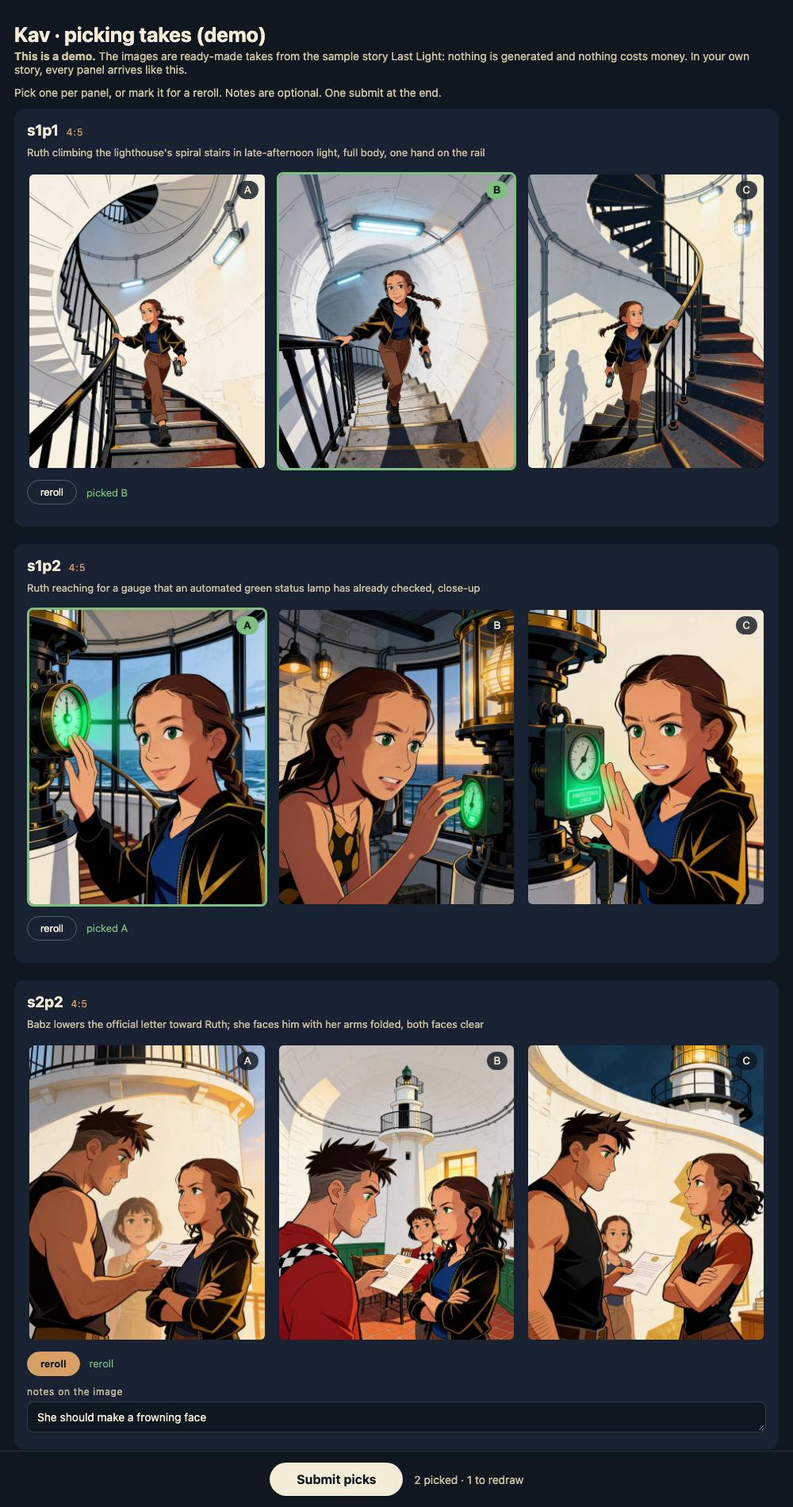
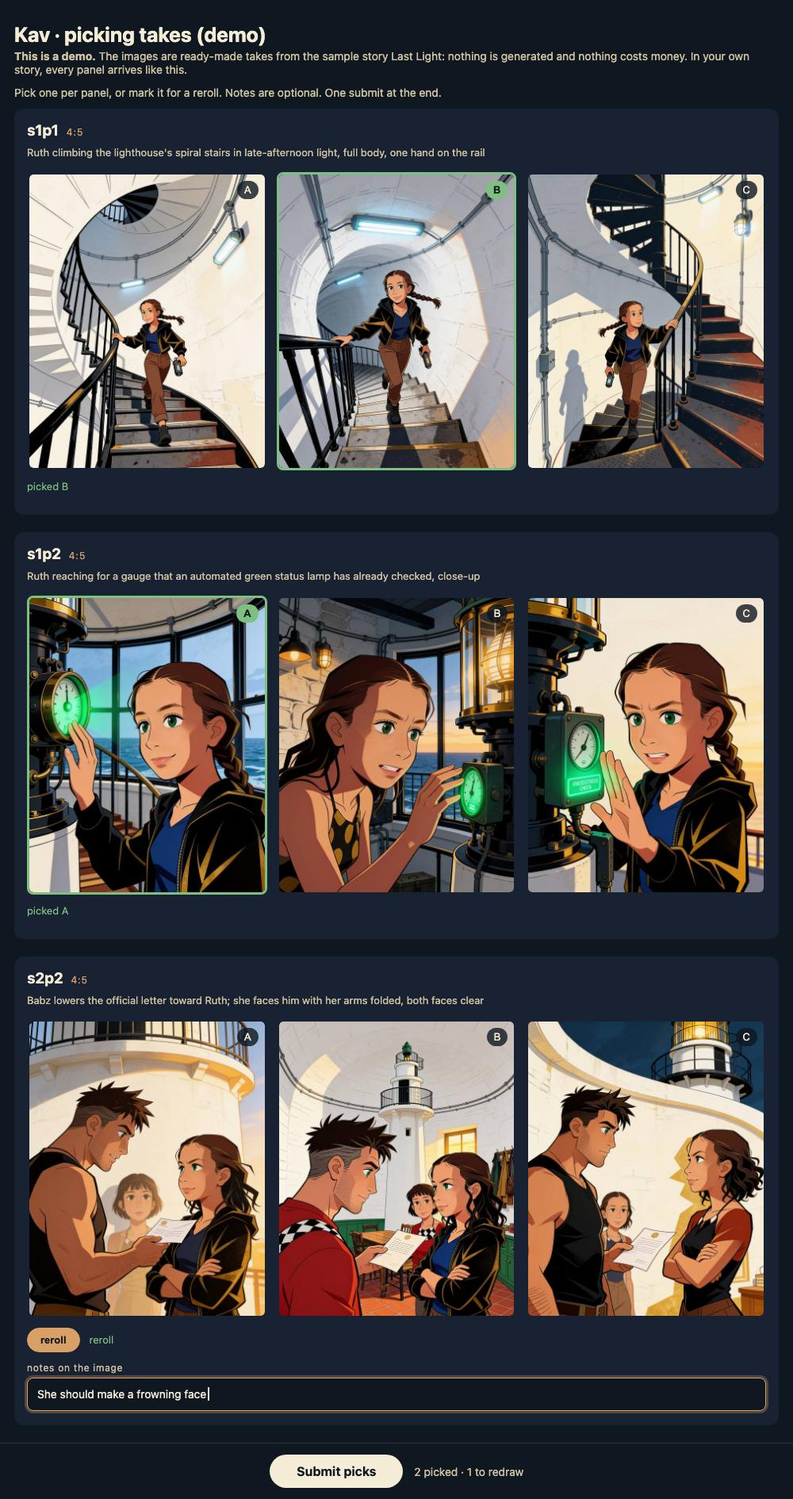
Demo picture and model table: simpler
- picking.jpg: no re-roll button on the two picked panels, and the re-roll note is shown being typed (focused field, caret).
- image-models.md rewritten short and in plain wording: strong points and limits per model. Nano Banana Pro: strong styling, struggles with consistency, about 4x the price. The single-book ChatGPT row is gone. For a tool that is not listed, Kav says it knows of no specific limits and offers to try a few examples, without starting a test unasked.
- /kav-start's provider table and pointers match.

diff --git a/docs/know-how/image-models.md b/docs/know-how/image-models.md
@@ -1,42 +1,38 @@
-# Image models: what each is like to work with in Kav
+# Image models in Kav
 
-What we know about each image model **as it behaves inside Kav**: with a character's reference shots, a location and a style pack bound to every panel. This is not a general ranking. A model that makes the most beautiful single picture can still lose a book, because a book needs the same face on page 1 and page 40.
+What each image model is like when you make a book with it in Kav. This is not a general ranking. A book needs the same face on every page, so consistency counts more than one beautiful picture.
 
-Every line says where it comes from. "Bake-off" means the same ten picked panels of a finished book were redrawn on that model and judged by eye. "One book" means a single author's session. "Untested" means the client works and nothing it made has been judged.
+Prices and reference limits change. `python3 tools/check_setup.py` prints the current values.
 
-Prices and reference caps change: `python3 tools/check_setup.py` prints the current ones from `tools/lanes/models.json`. When this page and the registry disagree, the registry wins and this page needs an edit.
+## Models Kav can run
 
-## How to use this with an author
+| Model | Strong points | Limits |
+|---|---|---|
+| **Seedream 4.5 on fal.ai** · about $0.04 | Best consistency. It keeps faces and style across scenes. It takes 10 reference images. Kav's default | A fourth named character in one panel can drift |
+| **Seedream 4.5 on Magnific** · about $0.05 | Good consistency. The same model as on fal.ai | It takes 5 reference images. Keep to 3 characters in a panel. It does not make 4:5 images, so Kav crops them |
+| **Nano Banana Pro** on fal.ai or a Google key · about $0.15 | Strong styling and image quality | It struggles with consistency. It costs about 4 times more than Seedream |
+| **Higgsfield** (Popcorn, Soul) · about $0.05 | Popcorn takes 8 reference images | Not tested. Soul takes 1 reference image, so it cannot keep a face |
 
-Ask what they already have an account with, then show the options that fit, with the trade-offs in plain words. **A tool they already use and like is the natural choice**; say what it costs them in Kav and respect the decision. If they name something that isn't here, say it is new to us, try it through the author's-own-tool route (`own-image-tool.md`) on two or three panels, and judge it together. Then add what you learned to this page.
+## Models Kav cannot run
 
-## Works through Kav's own lanes
+| Model | Strong points | Limits |
+|---|---|---|
+| **Midjourney** | The most artistic output | It has no API, so Kav cannot use it. You can make images there by hand, and Kav can add them as takes (`tools/add_candidate.py`) |
 
-| Model, and where | Good at | Costs you | Evidence |
-|---|---|---|---|
-| **Seedream 4.5 on fal.ai** · about $0.04 | Holding faces and a style pack together across scenes. Takes up to 10 reference images, the biggest stack of any lane. Kav's default | Past 10 references it silently drops some, so a very crowded panel loses a character. A fourth named face still drifts first | Bake-off: matched the book |
-| **Seedream 4.5 on Magnific** · about $0.05 | Same model, similar quality, its own slightly different look. A good choice for someone who already pays for Magnific | **5 reference images at most.** In practice a panel holds three named subjects (characters and bound objects) before the style stops binding, so scenes are planned around that. No 4:5 output: page cells come back 3:4 and need cropping | Bake-off: passed |
-| **Nano Banana Pro on fal.ai or Google's own key** · about $0.15 | Overall image quality and a strong look of its own. Reliable for text inside the frame, real places, and a single character's reference shots | About four times Seedream's price. Faces hold less well from scene to scene. It tends to paint in its own style over the style pack: in our rotoscope test it ignored the pack. Refuses the wide panel shapes (8:5, 12:5), which come back 16:9 and 21:9 | Bake-off (one style) |
-| **Popcorn on Higgsfield** · about $0.05 | Takes 8 references, the closest in shape to how Kav works | Unknown. API credits are bought separately from the app plan | Untested |
-| **Soul on Higgsfield** · about $0.05 | Higgsfield's own look | One style reference only, so it cannot hold a character's face across panels | Untested |
+## The image generator in the author's AI tool
 
-## Works through the author's own tool
+It needs no key and no setup. The agent makes one panel for each image and adds the results as takes (`own-image-tool.md`). Kav cannot see the cost.
 
-No key and nothing to set up. Kav cannot bind its reference stack or see the cost; the agent passes the references and files the results as takes (`own-image-tool.md`).
+## When the author asks about a tool that is not here
 
-| Tool | Good at | Costs you | Evidence |
-|---|---|---|---|
-| **ChatGPT / Codex built-in image generation** | Attractive painterly pages straight away, and it follows a rough layout sketch well. The author called the first full set "beautiful" | Precise anatomy on unusual subjects (an ant's six legs) failed repeatedly, and a local fix tends to redraw its neighbours. Much easier to live with one panel per image and three takes to choose from. Cost is not visible to Kav | One book |
-| **Midjourney** | The most artistic, stylised output of anything here | **Kav cannot drive it: it has no API.** Images an author makes there by hand can still be brought in as takes with `tools/add_candidate.py`, but every panel is a manual round trip, and keeping a character consistent is on the author | Not used in Kav |
-| **Anything else** (Krea, Leonardo, Ideogram, a local model…) | Unknown to us | Unknown to us. Try two or three panels and judge | Untested |
+Say that Kav knows of no specific limits or problems with it. Offer to try a few examples together and judge the results. Do not start a test before the author says yes.
 
-## What decides it for most books
+## How to use this page with an author
 
-- **A cast of recurring faces:** Seedream, on fal.ai if there is no account yet. Reference capacity matters more than polish.
-- **Three or fewer subjects per panel and a Magnific account:** Magnific is fine. Plan the fourth character into the next panel.
-- **A look that matters more than the same face twice** (a poem, a mood piece, single images): Nano Banana Pro, or the author's own tool.
-- **No key, wants to start now:** the AI tool's own generator. Say that consistency is on that tool, and move on.
+1. Ask which image tools or accounts the author already has.
+2. Show the options that fit, with the strong points and the limits.
+3. Let the author choose. A tool the author already uses is a good choice.
 
-## Adding to this page
+## Add what you learn
 
-When a model is tried on a real story, add or correct its row: what it was good at, what it cost, and the evidence in two or three words. One author's experience is worth writing down as "one book". Don't promote it to a recommendation until it has been through a bake-off.
+When a model is tested on a real story, change its row. Keep each cell to one or two short sentences.

diff --git a/.agents/skills/kav-start/SKILL.md b/.agents/skills/kav-start/SKILL.md
@@ -56,14 +56,14 @@ It copies only the key names Kav knows, reports names only, and keeps keys alrea
 
 **If you have an image generator of your own** (ChatGPT / Codex image generation, a Gemini or MCP image tool), offer it as a real option, and first when the author has no provider key: there is nothing to set up. Kav's pipeline takes what it makes, one panel at a time (`docs/know-how/own-image-tool.md`). Say the two differences once, then respect the choice: Kav can't report what that tool costs, and a character stays consistent only as well as that tool holds a reference image. Record the choice in `.env` as `KAV_IMAGE_TOOL=<its name>`; leave `KAV_PROVIDER` for Kav's own lanes.
 
-**(b) Then present the options, with the trade-offs, and let the author choose.** What each model is like to work with in Kav, and the evidence behind it, is in `docs/know-how/image-models.md`: use it, including for models that aren't in the table (Midjourney has no API; anything unknown gets tried on two or three panels). `check_setup.py` prints the current list from the registry (`tools/lanes/models.json`) with each model's status, price and reference cap — read it rather than trusting the table below, which is a snapshot. Mark what is already set up and what Kav recommends. **A provider they already use is the natural choice** — say so, and don't talk them out of it. Mention an entry the check marks as needing re-verification.
+**(b) Then present the options, with the trade-offs, and let the author choose.** What each model is like to work with in Kav is in `docs/know-how/image-models.md`: use it. Midjourney has no API, so Kav cannot run it. If the author asks about a tool that is not listed, say that Kav knows of no specific limits with it and offer to try a few examples together; don't start testing unasked. `check_setup.py` prints the current list from the registry (`tools/lanes/models.json`) with each model's status, price and reference cap — read it rather than trusting the table below, which is a snapshot. Mark what is already set up and what Kav recommends. **A provider they already use is the natural choice** — say so, and don't talk them out of it. Mention an entry the check marks as needing re-verification.
 
 | Provider | Models | Trade-offs |
 |---|---|---|
 | **fal.ai** *(recommended when nothing is set up)* | Seedream 4.5, Nano Banana Pro | One key for both. Takes Kav's full reference stack, which holds faces best. About $0.04 an image on Seedream. Needs a little credit up front, and generation stops with a 403 when the balance runs low |
 | **Magnific** *(tested, passes)* | Seedream 4.5 | Same model as fal.ai's default, similar quality, its own slightly different look. **5 reference images max**, so panels must stay at three named subjects or the style stops binding. No 4:5 output: page cells come back 3:4 and need cropping |
 | **Higgsfield** | Popcorn, Soul | Popcorn takes 8 references. Soul is Higgsfield's own look and takes one style reference, so it cannot hold a character's face across panels. Untested by us; API credits are separate from the app plan |
-| **Google Gemini** | Nano Banana Pro | Direct access without fal.ai. One model only, about 4× Seedream's price, and in our tests it ignored a rotoscope style pack for its own painterly look. Fine for other styles; needs billing enabled on the Google Cloud project |
+| **Google Gemini** | Nano Banana Pro | Direct access without fal.ai. One model only. Strong styling and image quality, but it struggles with consistency, and it costs about 4× Seedream. Needs billing enabled on the Google Cloud project |
 | **Your AI tool's own image generator** | whatever it offers | Nothing to set up and no key. Untested by us with any given tool: Kav can't bind its full reference stack or report the cost, and consistency depends on how well the tool follows a reference image. One panel per image, then Kav's review, lettering and pages as usual |
 
 Ask which they want, and what to use first and second (the default is Seedream first, Nano Banana Pro second). Record it in `.env`:

diff --git a/.claude/skills/kav-start/SKILL.md b/.claude/skills/kav-start/SKILL.md
@@ -56,14 +56,14 @@ It copies only the key names Kav knows, reports names only, and keeps keys alrea
 
 **If you have an image generator of your own** (ChatGPT / Codex image generation, a Gemini or MCP image tool), offer it as a real option, and first when the author has no provider key: there is nothing to set up. Kav's pipeline takes what it makes, one panel at a time (`docs/know-how/own-image-tool.md`). Say the two differences once, then respect the choice: Kav can't report what that tool costs, and a character stays consistent only as well as that tool holds a reference image. Record the choice in `.env` as `KAV_IMAGE_TOOL=<its name>`; leave `KAV_PROVIDER` for Kav's own lanes.
 
-**(b) Then present the options, with the trade-offs, and let the author choose.** What each model is like to work with in Kav, and the evidence behind it, is in `docs/know-how/image-models.md`: use it, including for models that aren't in the table (Midjourney has no API; anything unknown gets tried on two or three panels). `check_setup.py` prints the current list from the registry (`tools/lanes/models.json`) with each model's status, price and reference cap — read it rather than trusting the table below, which is a snapshot. Mark what is already set up and what Kav recommends. **A provider they already use is the natural choice** — say so, and don't talk them out of it. Mention an entry the check marks as needing re-verification.
+**(b) Then present the options, with the trade-offs, and let the author choose.** What each model is like to work with in Kav is in `docs/know-how/image-models.md`: use it. Midjourney has no API, so Kav cannot run it. If the author asks about a tool that is not listed, say that Kav knows of no specific limits with it and offer to try a few examples together; don't start testing unasked. `check_setup.py` prints the current list from the registry (`tools/lanes/models.json`) with each model's status, price and reference cap — read it rather than trusting the table below, which is a snapshot. Mark what is already set up and what Kav recommends. **A provider they already use is the natural choice** — say so, and don't talk them out of it. Mention an entry the check marks as needing re-verification.
 
 | Provider | Models | Trade-offs |
 |---|---|---|
 | **fal.ai** *(recommended when nothing is set up)* | Seedream 4.5, Nano Banana Pro | One key for both. Takes Kav's full reference stack, which holds faces best. About $0.04 an image on Seedream. Needs a little credit up front, and generation stops with a 403 when the balance runs low |
 | **Magnific** *(tested, passes)* | Seedream 4.5 | Same model as fal.ai's default, similar quality, its own slightly different look. **5 reference images max**, so panels must stay at three named subjects or the style stops binding. No 4:5 output: page cells come back 3:4 and need cropping |
 | **Higgsfield** | Popcorn, Soul | Popcorn takes 8 references. Soul is Higgsfield's own look and takes one style reference, so it cannot hold a character's face across panels. Untested by us; API credits are separate from the app plan |
-| **Google Gemini** | Nano Banana Pro | Direct access without fal.ai. One model only, about 4× Seedream's price, and in our tests it ignored a rotoscope style pack for its own painterly look. Fine for other styles; needs billing enabled on the Google Cloud project |
+| **Google Gemini** | Nano Banana Pro | Direct access without fal.ai. One model only. Strong styling and image quality, but it struggles with consistency, and it costs about 4× Seedream. Needs billing enabled on the Google Cloud project |
 | **Your AI tool's own image generator** | whatever it offers | Nothing to set up and no key. Untested by us with any given tool: Kav can't bind its full reference stack or report the cost, and consistency depends on how well the tool follows a reference image. One panel per image, then Kav's review, lettering and pages as usual |
 
 Ask which they want, and what to use first and second (the default is Seedream first, Nano Banana Pro second). Record it in `.env`:

diff --git a/adapters/codex/skills/kav-start/SKILL.md b/adapters/codex/skills/kav-start/SKILL.md
@@ -56,14 +56,14 @@ It copies only the key names Kav knows, reports names only, and keeps keys alrea
 
 **If you have an image generator of your own** (ChatGPT / Codex image generation, a Gemini or MCP image tool), offer it as a real option, and first when the author has no provider key: there is nothing to set up. Kav's pipeline takes what it makes, one panel at a time (`docs/know-how/own-image-tool.md`). Say the two differences once, then respect the choice: Kav can't report what that tool costs, and a character stays consistent only as well as that tool holds a reference image. Record the choice in `.env` as `KAV_IMAGE_TOOL=<its name>`; leave `KAV_PROVIDER` for Kav's own lanes.
 
-**(b) Then present the options, with the trade-offs, and let the author choose.** What each model is like to work with in Kav, and the evidence behind it, is in `docs/know-how/image-models.md`: use it, including for models that aren't in the table (Midjourney has no API; anything unknown gets tried on two or three panels). `check_setup.py` prints the current list from the registry (`tools/lanes/models.json`) with each model's status, price and reference cap — read it rather than trusting the table below, which is a snapshot. Mark what is already set up and what Kav recommends. **A provider they already use is the natural choice** — say so, and don't talk them out of it. Mention an entry the check marks as needing re-verification.
+**(b) Then present the options, with the trade-offs, and let the author choose.** What each model is like to work with in Kav is in `docs/know-how/image-models.md`: use it. Midjourney has no API, so Kav cannot run it. If the author asks about a tool that is not listed, say that Kav knows of no specific limits with it and offer to try a few examples together; don't start testing unasked. `check_setup.py` prints the current list from the registry (`tools/lanes/models.json`) with each model's status, price and reference cap — read it rather than trusting the table below, which is a snapshot. Mark what is already set up and what Kav recommends. **A provider they already use is the natural choice** — say so, and don't talk them out of it. Mention an entry the check marks as needing re-verification.
 
 | Provider | Models | Trade-offs |
 |---|---|---|
 | **fal.ai** *(recommended when nothing is set up)* | Seedream 4.5, Nano Banana Pro | One key for both. Takes Kav's full reference stack, which holds faces best. About $0.04 an image on Seedream. Needs a little credit up front, and generation stops with a 403 when the balance runs low |
 | **Magnific** *(tested, passes)* | Seedream 4.5 | Same model as fal.ai's default, similar quality, its own slightly different look. **5 reference images max**, so panels must stay at three named subjects or the style stops binding. No 4:5 output: page cells come back 3:4 and need cropping |
 | **Higgsfield** | Popcorn, Soul | Popcorn takes 8 references. Soul is Higgsfield's own look and takes one style reference, so it cannot hold a character's face across panels. Untested by us; API credits are separate from the app plan |
-| **Google Gemini** | Nano Banana Pro | Direct access without fal.ai. One model only, about 4× Seedream's price, and in our tests it ignored a rotoscope style pack for its own painterly look. Fine for other styles; needs billing enabled on the Google Cloud project |
+| **Google Gemini** | Nano Banana Pro | Direct access without fal.ai. One model only. Strong styling and image quality, but it struggles with consistency, and it costs about 4× Seedream. Needs billing enabled on the Google Cloud project |
 | **Your AI tool's own image generator** | whatever it offers | Nothing to set up and no key. Untested by us with any given tool: Kav can't bind its full reference stack or report the cost, and consistency depends on how well the tool follows a reference image. One panel per image, then Kav's review, lettering and pages as usual |
 
 Ask which they want, and what to use first and second (the default is Seedream first, Nano Banana Pro second). Record it in `.env`:

diff --git a/kav/commands/kav-start.md b/kav/commands/kav-start.md
@@ -55,14 +55,14 @@ It copies only the key names Kav knows, reports names only, and keeps keys alrea
 
 **If you have an image generator of your own** (ChatGPT / Codex image generation, a Gemini or MCP image tool), offer it as a real option, and first when the author has no provider key: there is nothing to set up. Kav's pipeline takes what it makes, one panel at a time (`docs/know-how/own-image-tool.md`). Say the two differences once, then respect the choice: Kav can't report what that tool costs, and a character stays consistent only as well as that tool holds a reference image. Record the choice in `.env` as `KAV_IMAGE_TOOL=<its name>`; leave `KAV_PROVIDER` for Kav's own lanes.
 
-**(b) Then present the options, with the trade-offs, and let the author choose.** What each model is like to work with in Kav, and the evidence behind it, is in `docs/know-how/image-models.md`: use it, including for models that aren't in the table (Midjourney has no API; anything unknown gets tried on two or three panels). `check_setup.py` prints the current list from the registry (`tools/lanes/models.json`) with each model's status, price and reference cap — read it rather than trusting the table below, which is a snapshot. Mark what is already set up and what Kav recommends. **A provider they already use is the natural choice** — say so, and don't talk them out of it. Mention an entry the check marks as needing re-verification.
+**(b) Then present the options, with the trade-offs, and let the author choose.** What each model is like to work with in Kav is in `docs/know-how/image-models.md`: use it. Midjourney has no API, so Kav cannot run it. If the author asks about a tool that is not listed, say that Kav knows of no specific limits with it and offer to try a few examples together; don't start testing unasked. `check_setup.py` prints the current list from the registry (`tools/lanes/models.json`) with each model's status, price and reference cap — read it rather than trusting the table below, which is a snapshot. Mark what is already set up and what Kav recommends. **A provider they already use is the natural choice** — say so, and don't talk them out of it. Mention an entry the check marks as needing re-verification.
 
 | Provider | Models | Trade-offs |
 |---|---|---|
 | **fal.ai** *(recommended when nothing is set up)* | Seedream 4.5, Nano Banana Pro | One key for both. Takes Kav's full reference stack, which holds faces best. About $0.04 an image on Seedream. Needs a little credit up front, and generation stops with a 403 when the balance runs low |
 | **Magnific** *(tested, passes)* | Seedream 4.5 | Same model as fal.ai's default, similar quality, its own slightly different look. **5 reference images max**, so panels must stay at three named subjects or the style stops binding. No 4:5 output: page cells come back 3:4 and need cropping |
 | **Higgsfield** | Popcorn, Soul | Popcorn takes 8 references. Soul is Higgsfield's own look and takes one style reference, so it cannot hold a character's face across panels. Untested by us; API credits are separate from the app plan |
-| **Google Gemini** | Nano Banana Pro | Direct access without fal.ai. One model only, about 4× Seedream's price, and in our tests it ignored a rotoscope style pack for its own painterly look. Fine for other styles; needs billing enabled on the Google Cloud project |
+| **Google Gemini** | Nano Banana Pro | Direct access without fal.ai. One model only. Strong styling and image quality, but it struggles with consistency, and it costs about 4× Seedream. Needs billing enabled on the Google Cloud project |
 | **Your AI tool's own image generator** | whatever it offers | Nothing to set up and no key. Untested by us with any given tool: Kav can't bind its full reference stack or report the cost, and consistency depends on how well the tool follows a reference image. One panel per image, then Kav's review, lettering and pages as usual |
 
 Ask which they want, and what to use first and second (the default is Seedream first, Nano Banana Pro second). Record it in `.env`:

diff --git a/CHANGELOG.md b/CHANGELOG.md
@@ -12,7 +12,7 @@ From the first author outside the team, who finished an 18-page book the day aft
 
 **A few takes per panel, said and shown up front.** `/kav-start` tells the author before their first story that every panel comes as takes to pick from or re-roll, and shows it with a bundled demo of the review page: a picture of it mid-use (two picks, one re-roll with a note) and the live page on ready-made *Last Light* takes, `python3 tools/review.py --demo`. No story, no key, no cost. The review page now labels takes A, B, C like the contact sheet, and counts picks and re-rolls beside the submit button.
 
-**`docs/know-how/image-models.md`** — what each image model is like to work with in Kav, with the evidence behind each line: Seedream on fal.ai and on Magnific, Nano Banana Pro, Higgsfield, the AI tool's own generator, and Midjourney (no API, so only by hand).
+**`docs/know-how/image-models.md`** — a short table of what each image model is like to work with in Kav: Seedream on fal.ai and on Magnific, Nano Banana Pro, Higgsfield, and Midjourney (no API, so only by hand). Asked about a tool that isn't listed, Kav says it knows of no specific limits and offers to try a few examples.
 
 **Starting points.** Before the first story, Kav asks where the author is starting from: a finished story to adapt, a few photos to play with, an idea to develop, or a look around. A finished story gets its own way into `/kav-kickoff`: the text is saved untouched and Kav asks how to adapt it, not what it is about.
 

diff --git a/docs/know-how/own-image-tool.md b/docs/know-how/own-image-tool.md
@@ -31,7 +31,7 @@ The batch JSON, the scene list and `plan.md` are written exactly as for any lane
 
 ## Checking the takes
 
-The checks in `/kav-panel` and `/kav-chapter` still apply before anything is shown: each face against its reference shots, no generated lettering, the scene's time and weather. A tool Kav has not tested fails in its own ways, so look harder, not less.
+The checks in `/kav-panel` and `/kav-chapter` still apply before anything is shown: each face against its reference shots, no generated lettering, the scene's time and weather. Kav has not tested this tool, so look carefully.
 
 **Never report a visual fix as done on your own say-so.** Counting legs, fingers or people in a generated image is exactly where an agent's eye is unreliable. Say what you asked the tool to change, show the result, and let the author confirm. "I asked for the extra leg to be removed; please check panel 2" is honest. "Corrected" is a claim only the author can make.
 
